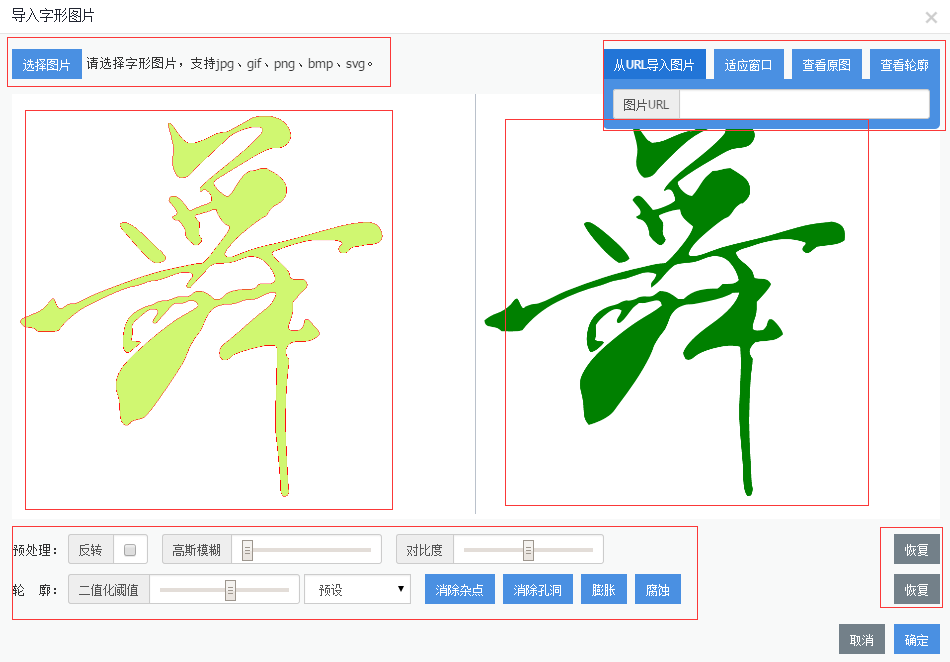
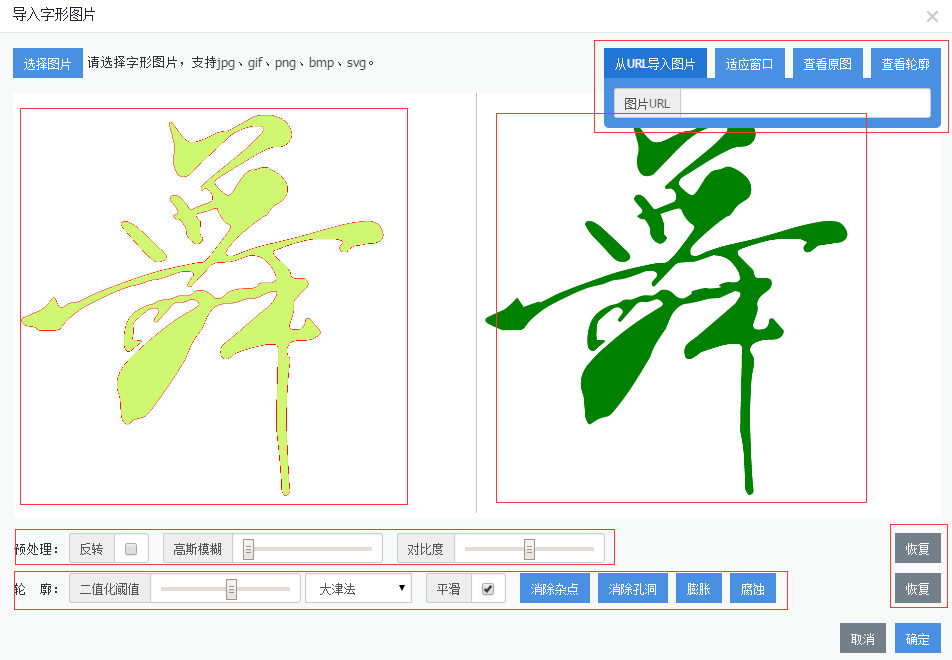
modify import pic

diff --git a/index.html b/index.html
@@ -61,6 +61,7 @@
                 <li>字形轮廓，单个轮廓由线段和二次贝塞尔曲线组成，多个轮廓组成一个字形。</li>
                 <li>unicode，码元，一个字形可以对应多个unicode码元，但一个unicode码元只能对应一个字形</li>
                 <li>name，字形名称</li>
+                <lifullName，字体唯一标识，生成svg字体的时候作为`fontId`使用</li>
                 <li>leftSideBearing，左边距，字形左侧的留白</li>
                 <li>rightSideBearing，右边距，字形右侧的留白</li>
             </ol>
@@ -164,7 +165,9 @@
             <p>点击`<em>反转</em>`按钮反转图像，拖动`<em>高斯平滑</em>`滑块对图像边界进行平滑处理，拖动`<em>对比度</em>`滑块调整图像对比度，点击`<em>恢复</em>`按钮恢复预处理。</p>
             <p>轮廓选项可以对提取的轮廓进一步加工。</p>
             <p>拖动`<em>二值化阈值</em>`滑块调整二值化后的轮廓，向左拖动减少细节，向右拖动增加细节，预设的阈值可以辅助筛选轮廓。
-                点击`<em>消除杂点</em>`按钮消除二值化后的杂点，点击`<em>消除孔洞</em>`按钮消除二值化后的孔洞，
+                点击`<em>平滑</em>`按钮切换平滑或者线段拟合，
+                点击`<em>消除杂点</em>`按钮，
+                点击`<em>消除孔洞</em>`按钮消除二值化后的孔洞，
                 点击`<em>膨胀</em>`按钮膨胀轮廓，点击`<em>腐蚀</em>`按钮腐蚀轮廓，点击`<em>恢复</em>`恢复轮廓处理。</p>
             <p>点击`<em>确定</em>`按钮确定导入轮廓。</p>
             <p><img src="./img/import-pic.png"></p>
@@ -319,6 +322,8 @@
             <h3>主面板快捷键</h3>
             <ol>
                 <li><em>`F2`</em>，打开/关闭字形编辑器</li>
+                <li><em>`F3`</em>，预览ttf字体</li>
+                <li><em>`F4`</em>，预览woff字体</li>
                 <li><em>`delete`</em>，删除选中字形</li>
                 <li><em>`ctrl + A`</em>，全选字形</li>
                 <li><em>`ctrl + C`</em>，复制选中字形</li>
